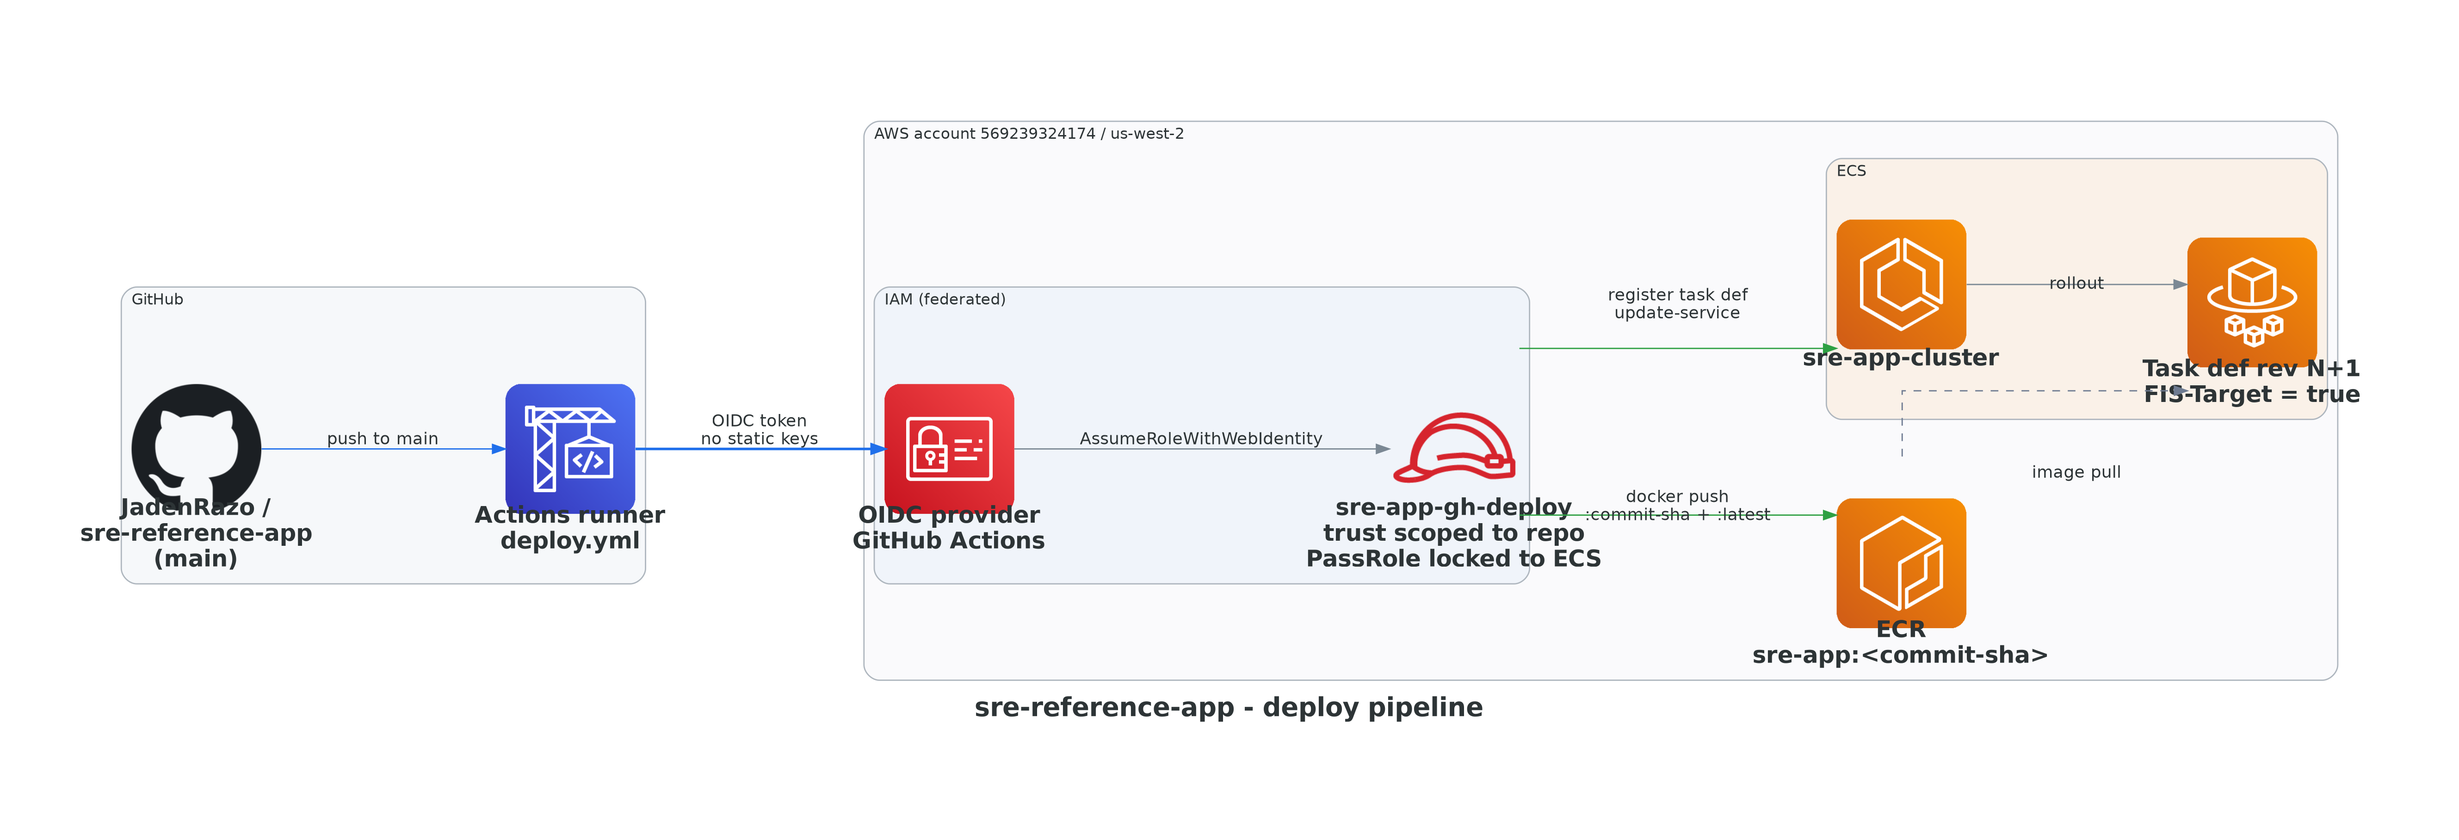
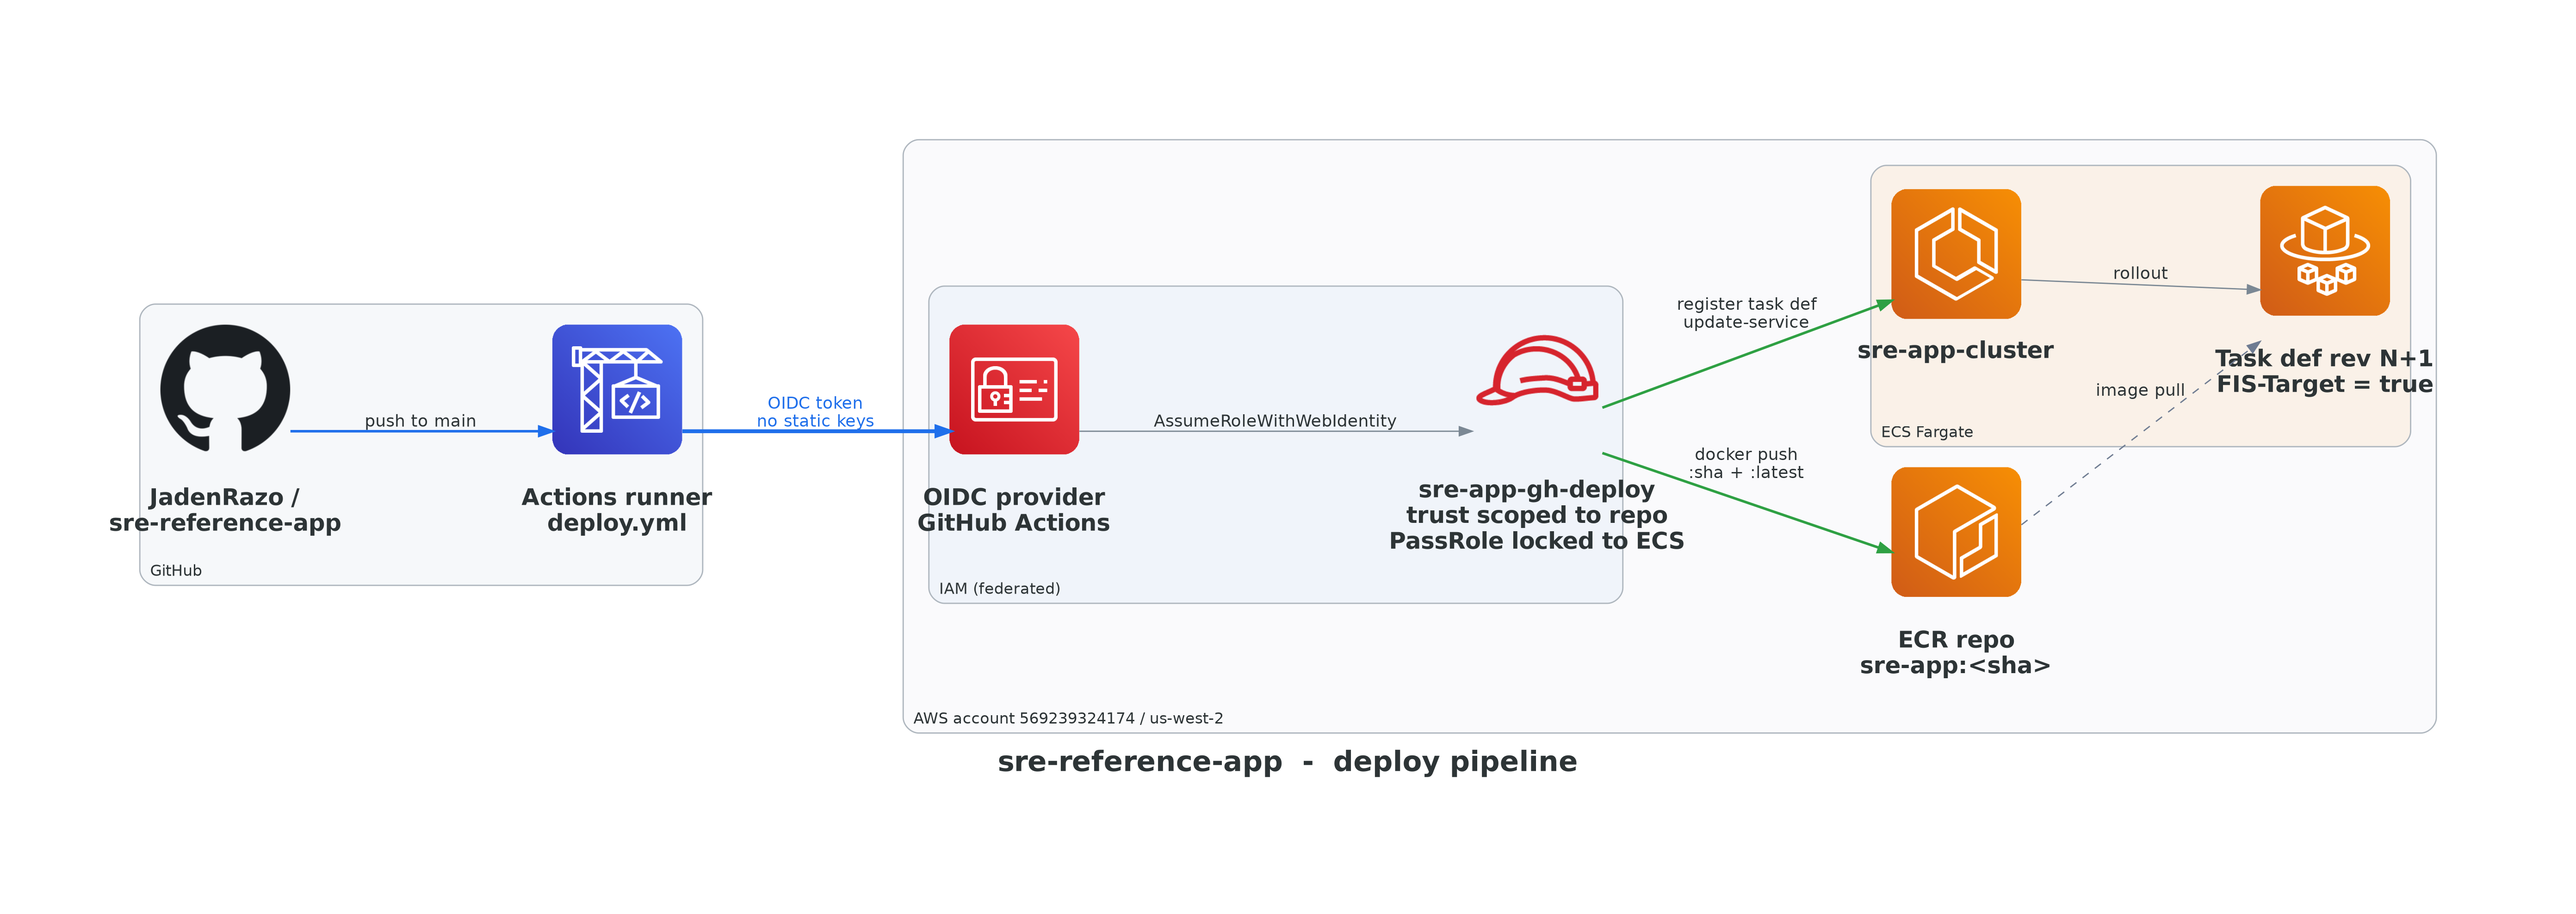
diagrams: simpler topology, single metric edge, no label collisions
Two structural changes that fix the label/edge overlap:

1. Collapsed the metric flow. The previous version drew separate edges
   from the ALB to the dashboard, the fast-burn alarm, and the slow-burn
   alarm. Three arrows fanning across the diagram with their labels
   stacked on top of each other. Now there is one 'metrics' edge into
   the Observability cluster and the alarms decorate the cluster from
   inside instead of being separate inbound endpoints.

2. splines='polyline' (was 'ortho'). Ortho looks clean on grid-aligned
   layouts but contorted around clusters with mixed sizing. Polyline
   gives Graphviz freedom to route around clusters without 90-degree
   detours into the wrong row.

Other tweaks:
- nodesep 0.9 -> 1.1, ranksep 1.4 -> 1.6 (more breathing room)
- node margin 0.25,0.20 (label has air around it inside the bounding box)
- pad 1.2 -> 1.4 (no left-edge clipping on long node names)
- Cluster bgcolors kept light (FAFAFC, F0F4FA, E8F1FA, FAF1E8, FFF4F4)
  with style='rounded' for a less boxy feel
- Edge labels for alarms simplified: 'page / ticket' duplicated label
  becomes one 'page' edge from fast-burn and one 'ticket' edge from
  slow-burn, which is also the actual semantics

diff --git a/diagrams/architecture.py b/diagrams/architecture.py
@@ -16,43 +16,56 @@ from diagrams.aws.compute import EC2ContainerRegistry, ElasticContainerService, 
 from diagrams.aws.devtools import Codebuild
 from diagrams.aws.integration import SimpleNotificationServiceSnsTopic
 from diagrams.aws.management import Cloudwatch, CloudwatchAlarm, CloudwatchLogs
-from diagrams.aws.network import ALB, InternetGateway, NATGateway
+from diagrams.aws.network import ALB, NATGateway
 from diagrams.aws.security import IAMRole, IdentityAndAccessManagementIam
 from diagrams.onprem.client import Users
 from diagrams.onprem.vcs import Github
 
-# dpi=200 doubles graphviz's 96-default raster resolution, which is what
-# makes the labels actually readable when GitHub scales the PNG down to
-# the README column width. Without this, fontsize 18 still rendered as
-# unreadable 6-8 pixel text on a 960px-wide column.
-#
-# Larger fontsize + bold + extra nodesep give the text room to breathe.
+# Layout philosophy
+# -----------------
+# 1. Direction LR (left-to-right). TB collapses to a narrow column on this
+#    library; LR gives each cluster room.
+# 2. One arrow per relationship. The runtime had separate ALB->dashboard,
+#    ALB->fast, ALB->slow edges; this version collapses them to a single
+#    "metrics" arrow into the Observability cluster, with alarms decorating
+#    the cluster from inside.
+# 3. splines="polyline" instead of "ortho". Ortho is cleaner when nodes
+#    align on a grid; polyline gives Graphviz freedom to route around
+#    clusters without 90-degree contortions.
+# 4. Generous nodesep / ranksep. The script aims for legibility over
+#    diagram density.
+
 GRAPH = {
     "fontname": "Helvetica-Bold",
-    "fontsize": "20",
-    "splines": "ortho",
-    "nodesep": "0.9",
-    "ranksep": "1.4",
-    "pad": "1.2",
+    "fontsize": "22",
+    "splines": "polyline",
+    "nodesep": "1.1",
+    "ranksep": "1.6",
+    "pad": "1.4",
     "bgcolor": "white",
     "dpi": "200",
+    "compound": "true",
+    "labelloc": "b",
+    "labeljust": "c",
+    "rankdir": "LR",
 }
-NODE = {"fontname": "Helvetica-Bold", "fontsize": "18"}
-EDGE = {"fontname": "Helvetica", "fontsize": "15"}
+NODE = {
+    "fontname": "Helvetica-Bold",
+    "fontsize": "18",
+    "imagepos": "tc",
+    "labelloc": "b",
+    "margin": "0.25,0.20",
+}
+EDGE = {
+    "fontname": "Helvetica-Bold",
+    "fontsize": "15",
+}
 
 # ---------------------------------------------------------------------------
-# Diagram 1: runtime / request path
-#
-# Layout: LR top-to-bottom story.
-#   1. User -> ALB (top public band)
-#   2. ALB -> 2 Fargate tasks (private band)
-#   3. Tasks -> NAT for egress, -> Logs for stdout
-#   4. ALB metrics -> CloudWatch metric math -> 2 alarms -> single SNS topic
-# IGW is omitted (implicit when the ALB is internet-facing) so the diagram
-# does not carry an orphan node just to be technically complete.
+# Diagram 1: runtime
 # ---------------------------------------------------------------------------
 with Diagram(
-    "sre-reference-app - runtime",
+    "sre-reference-app  -  runtime",
     filename="../docs/architecture-runtime",
     show=False,
     direction="LR",
@@ -62,48 +75,67 @@ with Diagram(
 ):
     user = Users("Internet")
 
-    with Cluster("AWS account 569239324174 / us-west-2", graph_attr={"bgcolor": "#FAFAFC"}):
-        with Cluster("VPC 10.0.0.0/16", graph_attr={"bgcolor": "#F0F4FA"}):
-            with Cluster("Public subnets (2 AZ)", graph_attr={"bgcolor": "#E8F1FA"}):
+    with Cluster(
+        "AWS account 569239324174 / us-west-2",
+        graph_attr={"bgcolor": "#FAFAFC", "style": "rounded", "margin": "20"},
+    ):
+        with Cluster(
+            "VPC 10.0.0.0/16",
+            graph_attr={"bgcolor": "#F0F4FA", "style": "rounded", "margin": "16"},
+        ):
+            with Cluster(
+                "Public subnets (2 AZ)",
+                graph_attr={"bgcolor": "#E8F1FA", "style": "rounded"},
+            ):
                 alb = ALB("ALB :80\nderegistration_delay = 30s")
                 nat = NATGateway("NAT")
 
-            with Cluster("Private subnets (2 AZ)", graph_attr={"bgcolor": "#FAF1E8"}):
+            with Cluster(
+                "Private subnets (2 AZ)",
+                graph_attr={"bgcolor": "#FAF1E8", "style": "rounded"},
+            ):
                 tasks = [
                     Fargate("ECS task 1\n256 CPU / 512 MB"),
                     Fargate("ECS task 2\n256 CPU / 512 MB"),
                 ]
 
-        with Cluster("Observability", graph_attr={"bgcolor": "#FAFAFC"}):
+        with Cluster(
+            "Observability",
+            graph_attr={"bgcolor": "#FAFAFC", "style": "rounded", "margin": "16"},
+        ):
             logs = CloudwatchLogs("/ecs/sre-app\n7-day retention")
             dash = Cloudwatch("Dashboard\nsre-app-dashboard")
-            with Cluster("Burn-rate alarms", graph_attr={"bgcolor": "#FFF4F4"}):
+            with Cluster(
+                "Burn-rate alarms",
+                graph_attr={"bgcolor": "#FFF4F4", "style": "rounded"},
+            ):
                 fast = CloudwatchAlarm("fast-burn\n1h | 14.4%")
                 slow = CloudwatchAlarm("slow-burn\n6h | 6%")
-            sns = SimpleNotificationServiceSnsTopic("SNS\nslo-alerts")
+            sns = SimpleNotificationServiceSnsTopic("SNS\nslo-alerts -> email")
 
-    # request path (blue, solid)
-    user >> Edge(label="HTTP :80", color="#1F6FEB", penwidth="2") >> alb
-    alb >> Edge(label=":8080  /health 15s", color="#1F6FEB") >> tasks
+    # Request path (blue bold)
+    user >> Edge(label="HTTP :80", color="#1F6FEB", penwidth="3", fontcolor="#1F6FEB") >> alb
+    alb >> Edge(label=":8080  /health 15s", color="#1F6FEB", penwidth="2") >> tasks
 
-    # task egress (gray, dashed)
-    tasks[0] >> Edge(label="egress / image pull", style="dashed", color="#6E7B91") >> nat
+    # Egress + logs (gray dashed) - only one task connects each to keep edges sparse
+    tasks[0] >> Edge(label="egress", style="dashed", color="#6E7B91") >> nat
+    tasks[1] >> Edge(label="JSON logs", style="dashed", color="#6E7B91") >> logs
 
-    # logs (gray, dashed)
-    tasks[1] >> Edge(label="stdout JSON", style="dashed", color="#6E7B91") >> logs
-
-    # metrics + alarms (gray dashed for metrics, red for alarm fires)
+    # Single metrics edge from ALB into the Observability cluster.
+    # Alarms are decorations of the cluster, not separate inbound endpoints.
     alb >> Edge(label="metrics", style="dashed", color="#6E7B91") >> dash
-    alb >> Edge(label="RequestCount + 5xx", style="dashed", color="#6E7B91") >> fast
-    alb >> Edge(style="dashed", color="#6E7B91") >> slow
-    [fast, slow] >> Edge(label="page / ticket", color="#D63333", penwidth="2") >> sns
+
+    # Internal alarm chain
+    dash >> Edge(style="invis") >> fast
+    fast >> Edge(label="page", color="#D63333", penwidth="2", fontcolor="#D63333") >> sns
+    slow >> Edge(label="ticket", color="#D63333", penwidth="2", fontcolor="#D63333") >> sns
 
 
 # ---------------------------------------------------------------------------
 # Diagram 2: deploy pipeline
 # ---------------------------------------------------------------------------
 with Diagram(
-    "sre-reference-app - deploy pipeline",
+    "sre-reference-app  -  deploy pipeline",
     filename="../docs/architecture-deploy",
     show=False,
     direction="LR",
@@ -111,30 +143,39 @@ with Diagram(
     node_attr=NODE,
     edge_attr=EDGE,
 ):
-    with Cluster("GitHub", graph_attr={"bgcolor": "#F6F8FA"}):
-        repo = Github("JadenRazo /\nsre-reference-app\n(main)")
+    with Cluster(
+        "GitHub",
+        graph_attr={"bgcolor": "#F6F8FA", "style": "rounded", "margin": "16"},
+    ):
+        repo = Github("JadenRazo /\nsre-reference-app")
         actions = Codebuild("Actions runner\ndeploy.yml")
 
-    with Cluster("AWS account 569239324174 / us-west-2", graph_attr={"bgcolor": "#FAFAFC"}):
-        with Cluster("IAM (federated)", graph_attr={"bgcolor": "#F0F4FA"}):
-            oidc = IdentityAndAccessManagementIam(
-                "OIDC provider\nGitHub Actions"
-            )
+    with Cluster(
+        "AWS account 569239324174 / us-west-2",
+        graph_attr={"bgcolor": "#FAFAFC", "style": "rounded", "margin": "20"},
+    ):
+        with Cluster(
+            "IAM (federated)",
+            graph_attr={"bgcolor": "#F0F4FA", "style": "rounded", "margin": "16"},
+        ):
+            oidc = IdentityAndAccessManagementIam("OIDC provider\nGitHub Actions")
             role = IAMRole(
-                "sre-app-gh-deploy\ntrust scoped to repo\n"
-                "PassRole locked to ECS"
+                "sre-app-gh-deploy\ntrust scoped to repo\nPassRole locked to ECS"
             )
 
-        ecr = EC2ContainerRegistry("ECR\nsre-app:<commit-sha>")
+        ecr = EC2ContainerRegistry("ECR repo\nsre-app:<sha>")
 
-        with Cluster("ECS", graph_attr={"bgcolor": "#FAF1E8"}):
+        with Cluster(
+            "ECS Fargate",
+            graph_attr={"bgcolor": "#FAF1E8", "style": "rounded", "margin": "16"},
+        ):
             cluster = ElasticContainerService("sre-app-cluster")
             new_rev = Fargate("Task def rev N+1\nFIS-Target = true")
 
-    repo >> Edge(label="push to main", color="#1F6FEB") >> actions
-    actions >> Edge(label="OIDC token\nno static keys", color="#1F6FEB", penwidth="2") >> oidc
+    repo >> Edge(label="push to main", color="#1F6FEB", penwidth="2") >> actions
+    actions >> Edge(label="OIDC token\nno static keys", color="#1F6FEB", penwidth="3", fontcolor="#1F6FEB") >> oidc
     oidc >> Edge(label="AssumeRoleWithWebIdentity") >> role
-    role >> Edge(label="docker push\n:commit-sha + :latest", color="#2EA043") >> ecr
-    role >> Edge(label="register task def\nupdate-service", color="#2EA043") >> cluster
+    role >> Edge(label="docker push\n:sha + :latest", color="#2EA043", penwidth="2") >> ecr
+    role >> Edge(label="register task def\nupdate-service", color="#2EA043", penwidth="2") >> cluster
     ecr >> Edge(style="dashed", label="image pull", color="#6E7B91") >> new_rev
     cluster >> Edge(label="rollout") >> new_rev
